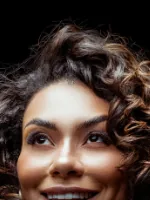
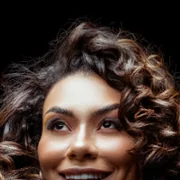
Lista: fotos do curso e dos botões com enquadramento mais aberto

diff --git a/lista.html b/lista.html
@@ -92,7 +92,7 @@
   <section class="lk-bloco" aria-labelledby="t-curso">
     <p class="kicker">Curso</p>
     <article class="destaque">
-      <img src="img/lista/curso.webp" width="700" height="1050" loading="lazy" alt="Dra. Kiss Cunha, curso de massoterapia">
+      <img src="img/lista/curso.webp" width="800" height="800" loading="lazy" alt="Dra. Kiss Cunha, curso de massoterapia">
       <div class="destaque__txt">
         <span class="destaque__selo">Curso prático · poucas vagas</span>
         <h2 id="t-curso">Massoterapia <em>para iniciantes</em></h2>
@@ -109,27 +109,27 @@
 
     <p class="lk-grupo">Atendimentos</p>
     <ul class="links">
-      <li><a href="#" data-wa="gostaria de mais informações sobre a Massoterapia"><img src="img/lista/t-massoterapia.webp" alt="" width="150" height="200"><span><strong>Massoterapia</strong><small>Massagens estéticas e terapêuticas</small></span><svg><use href="#seta"/></svg></a></li>
-      <li><a href="#" data-wa="gostaria de mais informações sobre a Harmonização Facial"><img src="img/lista/t-facial.webp" alt="" width="150" height="200"><span><strong>Harmonização facial</strong><small>Equilíbrio e traços naturais</small></span><svg><use href="#seta"/></svg></a></li>
-      <li><a href="#" data-wa="gostaria de mais informações sobre a Harmonização Corporal"><img src="img/lista/t-corporal.webp" alt="" width="150" height="200"><span><strong>Harmonização corporal</strong><small>Contorno, firmeza e medidas</small></span><svg><use href="#seta"/></svg></a></li>
-      <li><a href="#" data-wa="gostaria de mais informações sobre o Botox Day"><img src="img/lista/t-botox.webp" alt="" width="150" height="200"><span><strong>Botox Day</strong><small>Datas na agenda mensal</small></span><svg><use href="#seta"/></svg></a></li>
+      <li><a href="#" data-wa="gostaria de mais informações sobre a Massoterapia"><img src="img/lista/t-massoterapia.webp" alt="" width="180" height="180"><span><strong>Massoterapia</strong><small>Massagens estéticas e terapêuticas</small></span><svg><use href="#seta"/></svg></a></li>
+      <li><a href="#" data-wa="gostaria de mais informações sobre a Harmonização Facial"><img src="img/lista/t-facial.webp" alt="" width="180" height="180"><span><strong>Harmonização facial</strong><small>Equilíbrio e traços naturais</small></span><svg><use href="#seta"/></svg></a></li>
+      <li><a href="#" data-wa="gostaria de mais informações sobre a Harmonização Corporal"><img src="img/lista/t-corporal.webp" alt="" width="180" height="180"><span><strong>Harmonização corporal</strong><small>Contorno, firmeza e medidas</small></span><svg><use href="#seta"/></svg></a></li>
+      <li><a href="#" data-wa="gostaria de mais informações sobre o Botox Day"><img src="img/lista/t-botox.webp" alt="" width="180" height="180"><span><strong>Botox Day</strong><small>Datas na agenda mensal</small></span><svg><use href="#seta"/></svg></a></li>
     </ul>
 
     <p class="lk-grupo">Cursos &amp; eventos</p>
     <ul class="links">
-      <li><a href="#" data-wa="gostaria de mais informações sobre o Curso VIP Sentir"><img src="img/lista/t-sentir.webp" alt="" width="150" height="200"><span><strong>Curso VIP Sentir</strong><small>Terapias manuais</small></span><svg><use href="#seta"/></svg></a></li>
-      <li><a href="#" data-wa="gostaria de mais informações sobre os Eventos"><img src="img/lista/t-eventos.webp" alt="" width="150" height="200"><span><strong>Eventos</strong><small>Saiba mais</small></span><svg><use href="#seta"/></svg></a></li>
+      <li><a href="#" data-wa="gostaria de mais informações sobre o Curso VIP Sentir"><img src="img/lista/t-sentir.webp" alt="" width="180" height="180"><span><strong>Curso VIP Sentir</strong><small>Terapias manuais</small></span><svg><use href="#seta"/></svg></a></li>
+      <li><a href="#" data-wa="gostaria de mais informações sobre os Eventos"><img src="img/lista/t-eventos.webp" alt="" width="180" height="180"><span><strong>Eventos</strong><small>Saiba mais</small></span><svg><use href="#seta"/></svg></a></li>
     </ul>
 
     <p class="lk-grupo">Seja modelo</p>
     <ul class="links">
-      <li><a href="#" data-wa="gostaria de mais informações sobre ser modelo"><img src="img/lista/t-modelo.webp" alt="" width="150" height="200"><span><strong>Seja modelo</strong><small>Quero participar</small></span><svg><use href="#seta"/></svg></a></li>
-      <li><a href="#" data-wa="gostaria de mais informações sobre ser paciente modelo de Harmonização Facial"><img src="img/lista/t-modelo-facial.webp" alt="" width="150" height="200"><span><strong>Paciente modelo · Facial</strong><small>Harmonização facial</small></span><svg><use href="#seta"/></svg></a></li>
-      <li><a href="#" data-wa="gostaria de mais informações sobre ser paciente modelo de Remodelação Glútea"><img src="img/lista/t-gluteo.webp" alt="" width="150" height="200"><span><strong>Paciente modelo · Glútea</strong><small>Remodelação glútea</small></span><svg><use href="#seta"/></svg></a></li>
+      <li><a href="#" data-wa="gostaria de mais informações sobre ser modelo"><img src="img/lista/t-modelo.webp" alt="" width="180" height="180"><span><strong>Seja modelo</strong><small>Quero participar</small></span><svg><use href="#seta"/></svg></a></li>
+      <li><a href="#" data-wa="gostaria de mais informações sobre ser paciente modelo de Harmonização Facial"><img src="img/lista/t-modelo-facial.webp" alt="" width="180" height="180"><span><strong>Paciente modelo · Facial</strong><small>Harmonização facial</small></span><svg><use href="#seta"/></svg></a></li>
+      <li><a href="#" data-wa="gostaria de mais informações sobre ser paciente modelo de Remodelação Glútea"><img src="img/lista/t-gluteo.webp" alt="" width="180" height="180"><span><strong>Paciente modelo · Glútea</strong><small>Remodelação glútea</small></span><svg><use href="#seta"/></svg></a></li>
     </ul>
 
     <ul class="links links--site">
-      <li><a href="index.html"><img src="img/lista/t-site.webp" alt="" width="150" height="200"><span><strong>Site oficial</strong><small>Conheça a Dra. Kiss Cunha</small></span><svg><use href="#seta"/></svg></a></li>
+      <li><a href="index.html"><img src="img/lista/t-site.webp" alt="" width="180" height="180"><span><strong>Site oficial</strong><small>Conheça a Dra. Kiss Cunha</small></span><svg><use href="#seta"/></svg></a></li>
     </ul>
   </section>
 

diff --git a/css/lista.css b/css/lista.css
@@ -58,8 +58,8 @@
 .destaque{padding:10px;border-radius:28px;border:1px solid rgba(191,162,111,.4);
   background:linear-gradient(160deg,rgba(191,162,111,.14),rgba(255,255,255,.035) 45%);
   -webkit-backdrop-filter:var(--blur);backdrop-filter:var(--blur);box-shadow:var(--glass-brilho),0 20px 60px -24px rgba(191,162,111,.35)}
-.destaque img{width:100%;aspect-ratio:2/3;object-fit:cover;object-position:center 20%;border-radius:20px}
-.destaque__txt{padding:24px 14px 18px;text-align:center}
+.destaque img{width:100%;aspect-ratio:1/1;object-fit:cover;object-position:center top;border-radius:20px 20px 0 0}
+.destaque__txt{padding:6px 14px 18px;text-align:center}
 .destaque__selo{display:inline-block;padding:7px 14px;border-radius:999px;font:400 10px var(--corpo);letter-spacing:.22em;text-transform:uppercase;color:#F1DFB3;
   background:rgba(191,162,111,.14);border:1px solid rgba(191,162,111,.45)}
 .destaque h2{font-size:42px;margin:16px 0 10px;line-height:1}
@@ -71,11 +71,11 @@
 /* links */
 .lk-grupo{margin:26px 4px 10px;font:400 10px var(--corpo);letter-spacing:.26em;text-transform:uppercase;color:var(--txt)}
 .links{list-style:none;margin:0;padding:0;display:grid;gap:10px}
-.links a{display:flex;align-items:center;gap:16px;padding:8px 18px 8px 8px;border-radius:22px;
+.links a{display:flex;align-items:center;gap:16px;padding:9px 18px 9px 9px;border-radius:22px;
   background:var(--glass);border:1px solid var(--glass-borda);-webkit-backdrop-filter:var(--blur);backdrop-filter:var(--blur);box-shadow:var(--glass-brilho);
   transition:border-color .25s,background .25s,transform .25s}
 .links a:hover{border-color:rgba(191,162,111,.5);background:rgba(191,162,111,.1);transform:translateX(3px)}
-.links img{width:66px;height:88px;border-radius:15px;object-fit:cover;flex:none}
+.links img{width:80px;height:80px;border-radius:16px;object-fit:cover;flex:none}
 .links span{flex:1;min-width:0}
 .links strong{display:block;font:500 23px/1.15 var(--display);color:var(--off);margin-bottom:3px}
 .links small{display:block;font-size:13px;color:var(--txt);white-space:nowrap;overflow:hidden;text-overflow:ellipsis}
